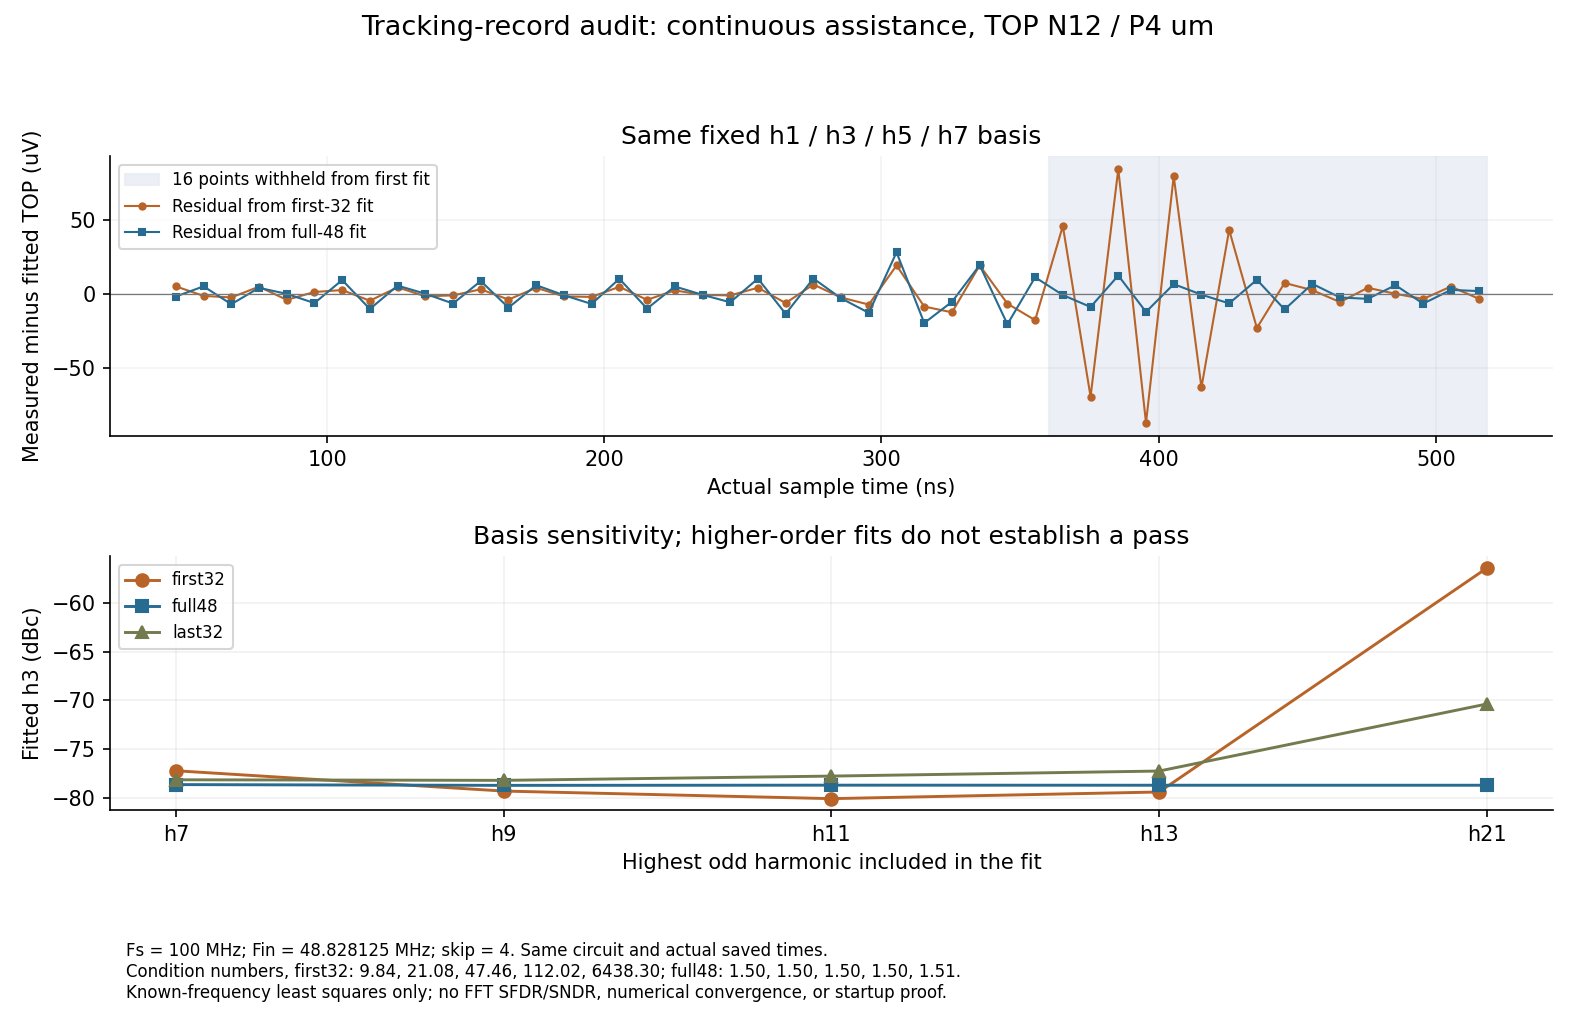
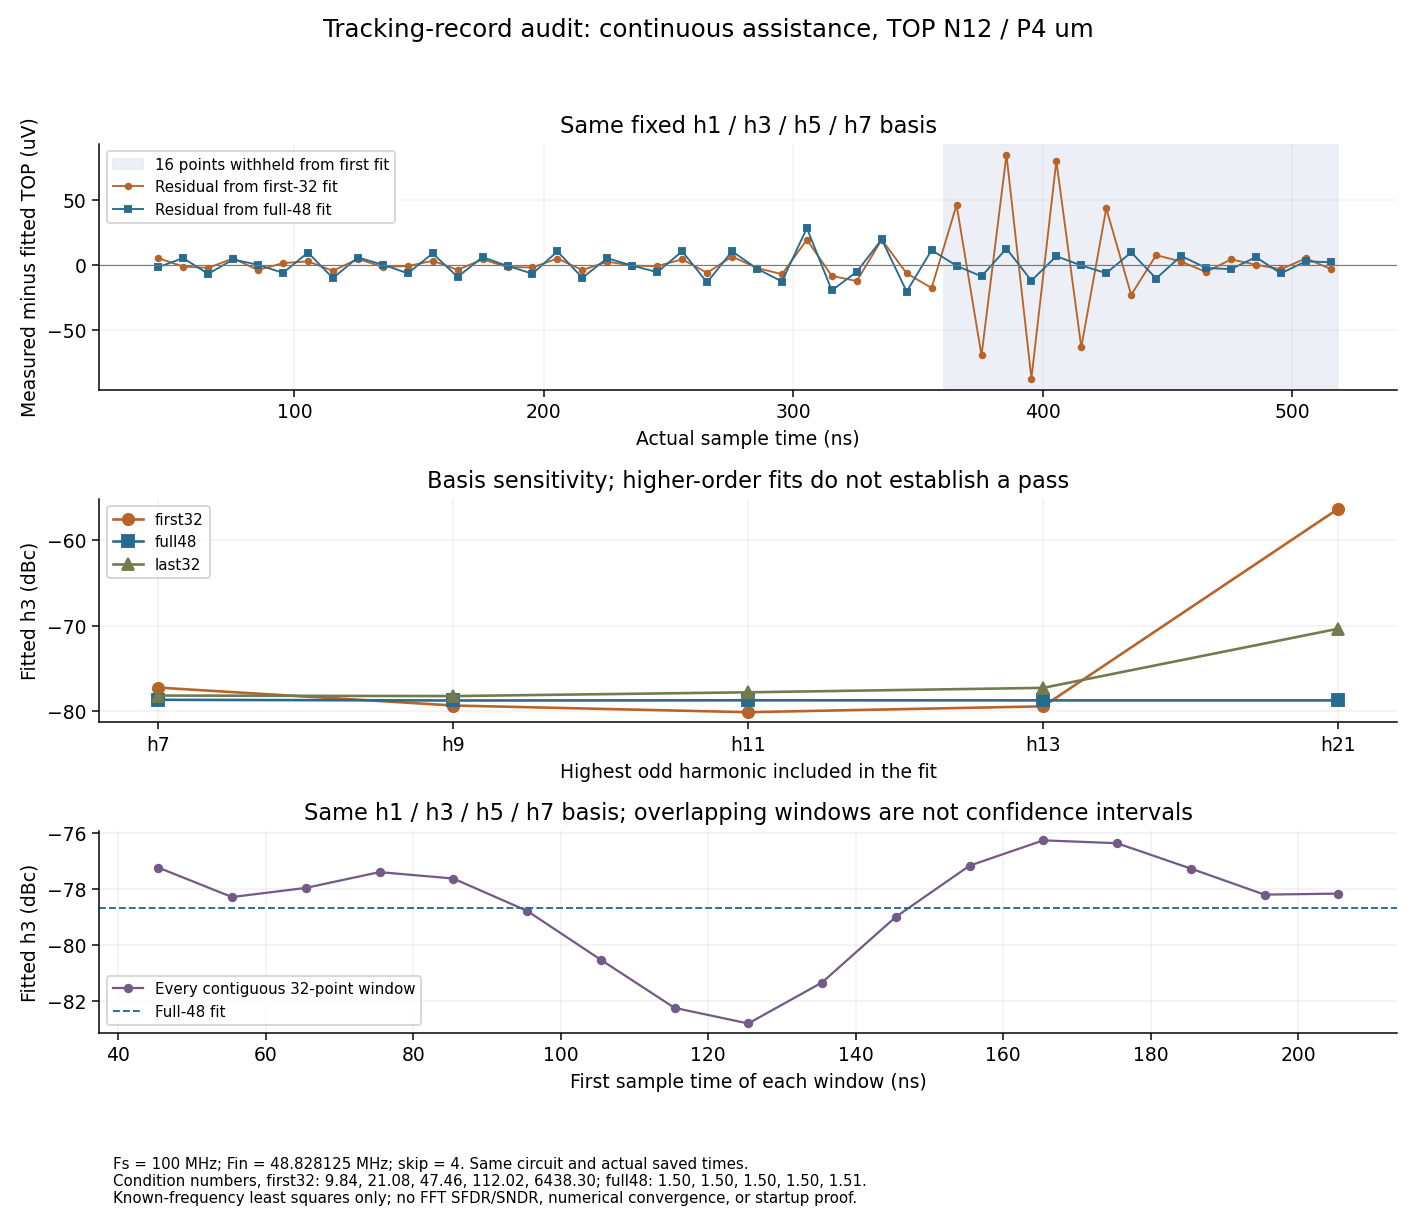
Expose tracking fit dependence on sample window

diff --git a/design/xtor/adc_cdac/many-question-codex/sampling-entry-diagnosis.md b/design/xtor/adc_cdac/many-question-codex/sampling-entry-diagnosis.md
@@ -679,6 +679,14 @@ fit gives fundamental = 0.789925 V, h5 = -86.1022 dBc, and h7 = -92.4754 dBc.
 Adding a linear trend to that same fixed basis changes h3 by less than
 0.0001 dB. That sensitivity check does not rule out other transient errors.
 
+An exhaustive check of all 17 contiguous 32-point windows keeps the same
+h1/h3/h5/h7 basis throughout. Their h3 estimates range from -82.7938 dBc
+for the window starting at 125.426 ns to -76.2668 dBc for the window starting
+at 165.426 ns. This 6.53 dB spread occurs within one circuit and one record,
+without changing the harmonic order. It is window sensitivity, not a
+physical performance spread or an independent statistical confidence range.
+The complete set of windows is shown below; none is selected as the result.
+
 ![Same-source record length and fit-basis audit](tracking-record-audit.png)
 
 Extending the basis on the full 48 points gives:

diff --git a/design/xtor/adc_cdac/many-question-codex/README.md b/design/xtor/adc_cdac/many-question-codex/README.md
@@ -128,6 +128,8 @@ no alternative fit is used to claim a pass. The continuous-assistance 12/4 um
 48-point audit gives h3 = -78.66 to -78.74 dBc across the tested bases,
 with much lower condition numbers. Its first-32 fit predicts the remaining
 16 points with 46.55 uV RMS error, exposing the short-window limitation.
+All 17 contiguous 32-point windows, with the same basis, span 6.53 dB in
+estimated h3 without any circuit change.
 This source has little apparent linearity margin. The next diagnostic
 freezes the existing pulse-assisted 12/4 um circuit and extends its record
 to 128 points. All remain LS diagnostics rather than official spectra.
